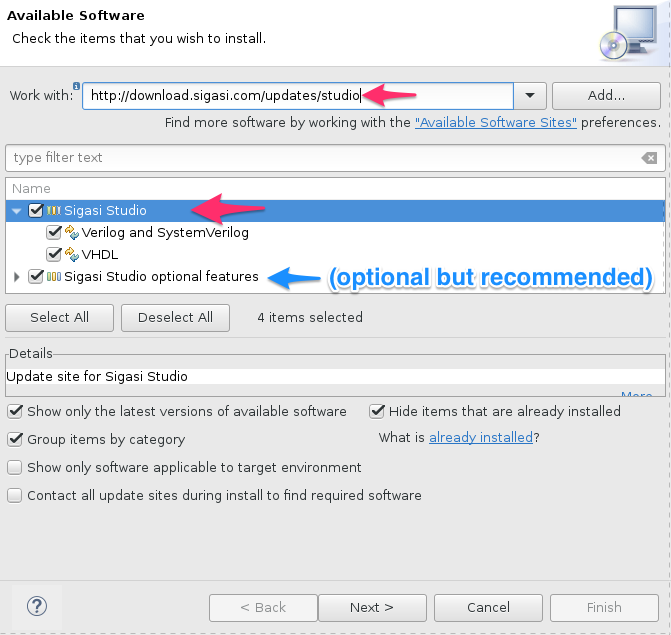
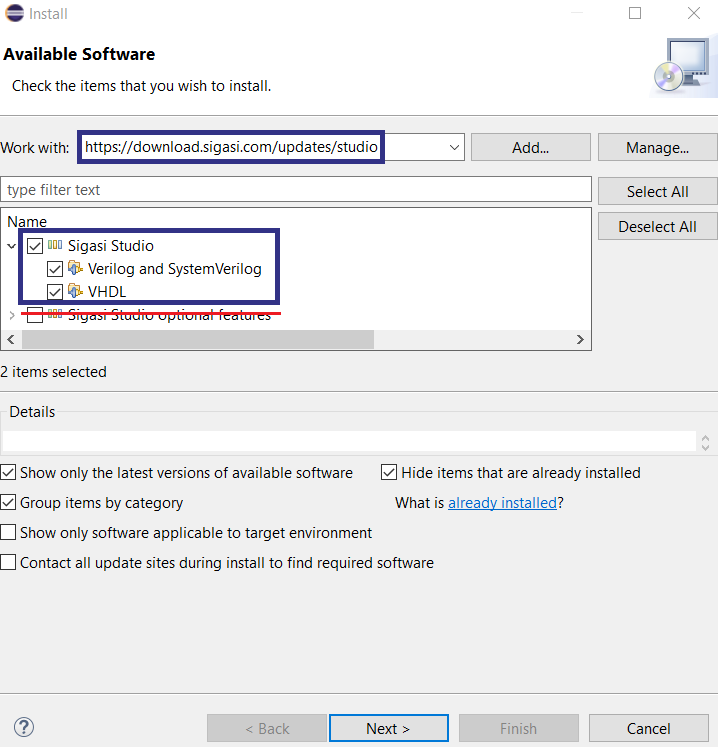
Resolve "Document plugin installation workaround"

Changed region(s): [[0.0, 0.0, 1.0, 0.8079], [0.2683, 0.8976, 1.0, 1.0], [0.0, 0.9276, 0.0894, 0.9874]]

diff --git a/content/manual/setup.md b/content/manual/setup.md
@@ -100,18 +100,14 @@ There are two ways to install the Sigasi Studio Eclipse Plugin:
 
 * You need to have at least [Eclipse](http://www.eclipse.org) version 4.8, nicknamed *Photon*.
 * This Eclipse version and the Sigasi Studio plugin require Java 11.
-* If you don't have Eclipse installed yet, the Java flavor would be good place to start. Just **download** ([Windows 64 bit][latest-eclipse-java-windows64]/[Linux 64 bit][latest-eclipse-java-linux64]/[Other versions][latest-eclipse-java]), **unzip** and **start**.
-* Note that Sigasi Studio is not compatible with the newest C/C++ flavor of Eclipse. If you want Sigasi Studio in the C/C++ flavor of Eclipse, please install version 2020-03 instead ([Windows 64 bit][latest-eclipse-cpp-windows64]/[Linux 64 bit][latest-eclipse-cpp-linux64]/[Other versions][latest-eclipse-cpp])
+* If you don't have Eclipse installed yet, the C/C++ flavor would be good place to start. Just **download** ([Windows 64 bit][latest-eclipse-cpp-windows64]/[Linux 64 bit][latest-eclipse-cpp-linux64]/[Other versions][latest-eclipse-cpp]), **unzip** and **start**.
 * We recommend you also [increase the heap size for Eclipse](/faq/#how-do-i-increase-the-heap-size-for-eclipse).
 
 For more information on system requirements: [System Requirements](/faq/#what-are-the-system-requirements)
 
-[latest-eclipse-java-windows64]:https://www.eclipse.org/downloads/download.php?file=/technology/epp/downloads/release/2020-06/R/eclipse-java-2020-06-R-win32-x86_64.zip
-[latest-eclipse-java-linux64]:https://www.eclipse.org/downloads/download.php?file=/technology/epp/downloads/release/2020-06/R/eclipse-java-2020-06-R-linux-gtk-x86_64.tar.gz
-[latest-eclipse-java]:https://www.eclipse.org/downloads/packages/release/2020-06/r/eclipse-ide-java-developers
-[latest-eclipse-cpp-windows64]:https://www.eclipse.org/downloads/download.php?file=/technology/epp/downloads/release/2020-03/R/eclipse-cpp-2020-03-R-incubation-win32-x86_64.zip
-[latest-eclipse-cpp-linux64]:https://www.eclipse.org/downloads/download.php?file=/technology/epp/downloads/release/2020-03/R/eclipse-cpp-2020-03-R-incubation-linux-gtk-x86_64.tar.gz
-[latest-eclipse-cpp]:https://www.eclipse.org/downloads/packages/release/2020-03/r/eclipse-ide-cc-developers-includes-incubating-components
+[latest-eclipse-cpp-windows64]:https://www.eclipse.org/downloads/download.php?file=/technology/epp/downloads/release/2021-12/R/eclipse-cpp-2021-12-R-win32-x86_64.zip
+[latest-eclipse-cpp-linux64]:https://www.eclipse.org/downloads/download.php?file=/technology/epp/downloads/release/2021-12/R/eclipse-cpp-2021-12-R-linux-gtk-x86_64.tar.gz
+[latest-eclipse-cpp]:https://www.eclipse.org/downloads/packages/release/2021-12/r/eclipse-ide-cc-developers
 
 ## Install the Eclipse Plugin
 
@@ -121,7 +117,7 @@ After starting Eclipse:
 1. Click **Help > Install New Software…**
 1. In the **Work with:** field enter **`https://download.sigasi.com/updates/studio`** and press **enter**.
 1. Check the checkbox next to **Sigasi Studio**
-1. We recommend to install the optional features too.
+1. Since [Sigasi Studio 4.15](/releasenotes/sigasi-4.15), installing Sigasi Studio optional features is no longer recommended.
 {{< figure src="/img/manual/setup-install-plugin.png" alt="Install Sigasi Studio plugin" >}}
 1. Click the **Next** button.
 1. The following steps are pretty self-explaining.
